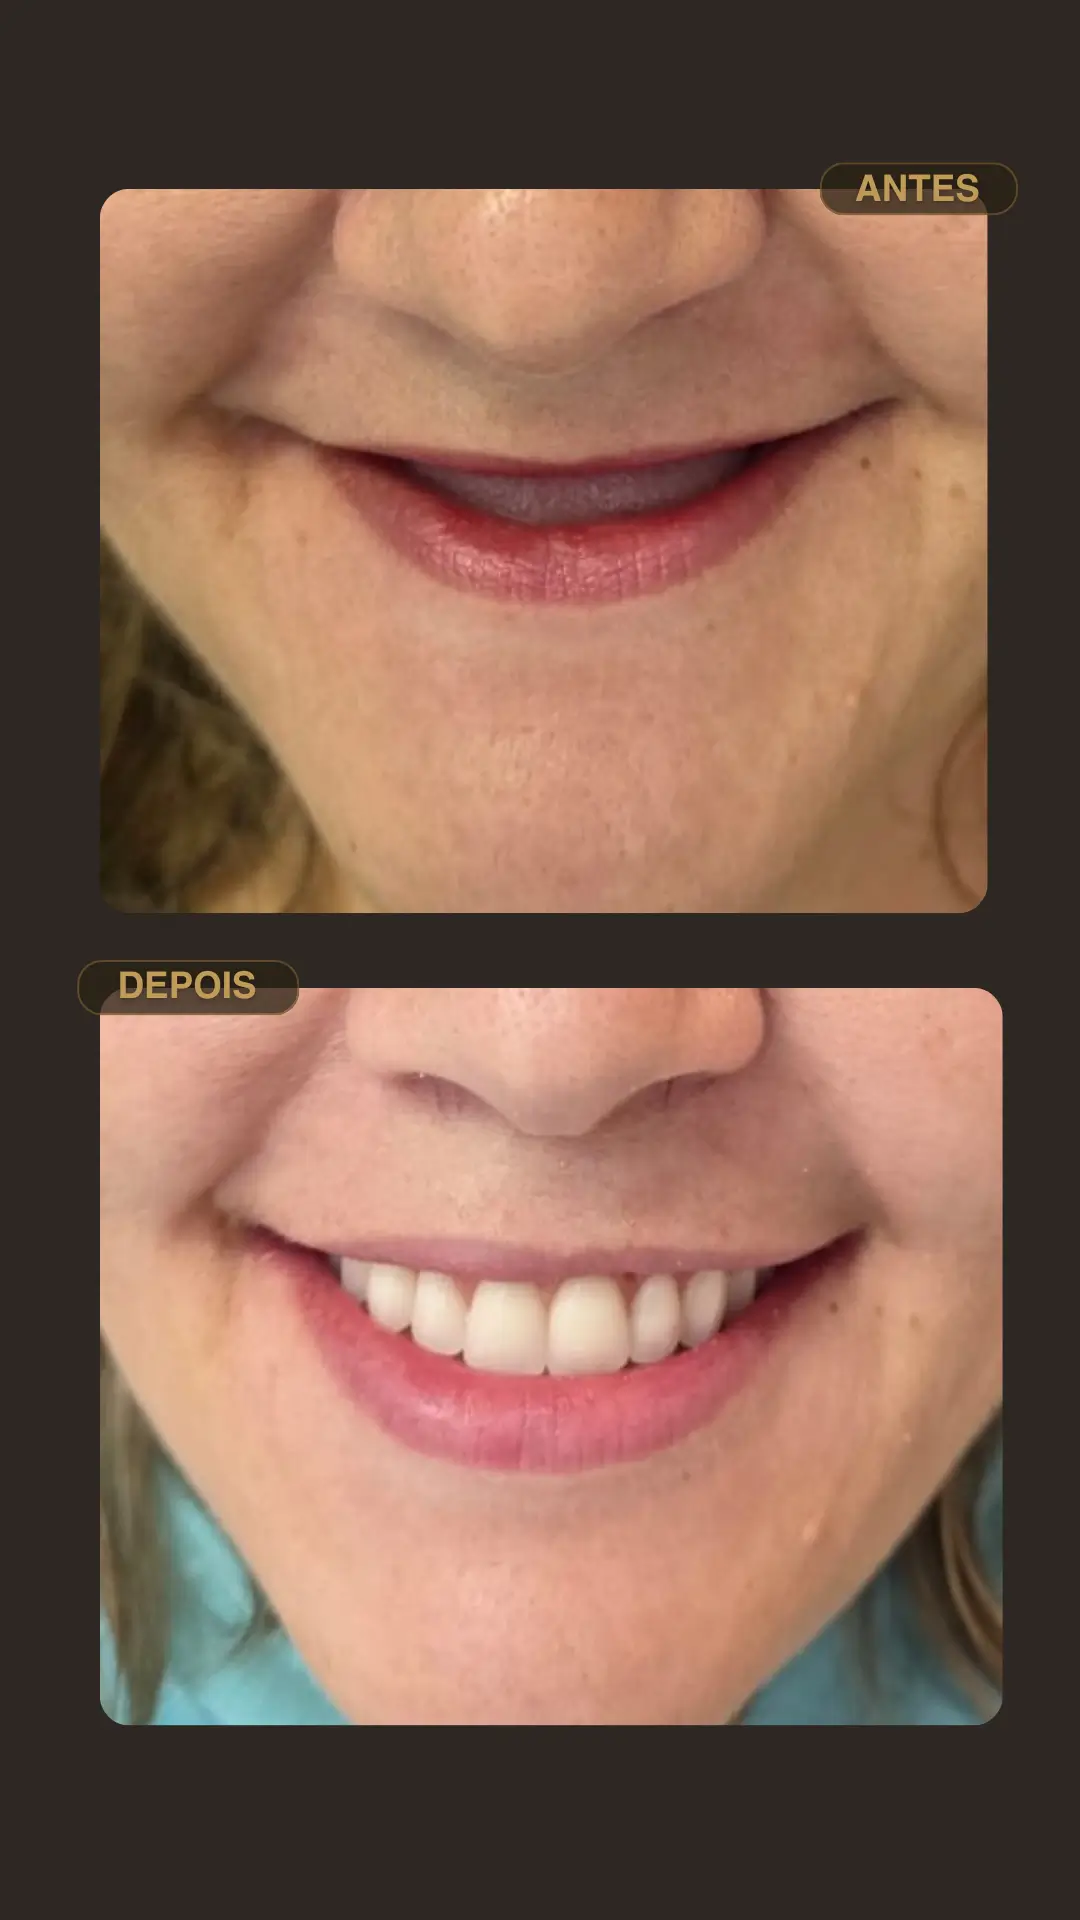
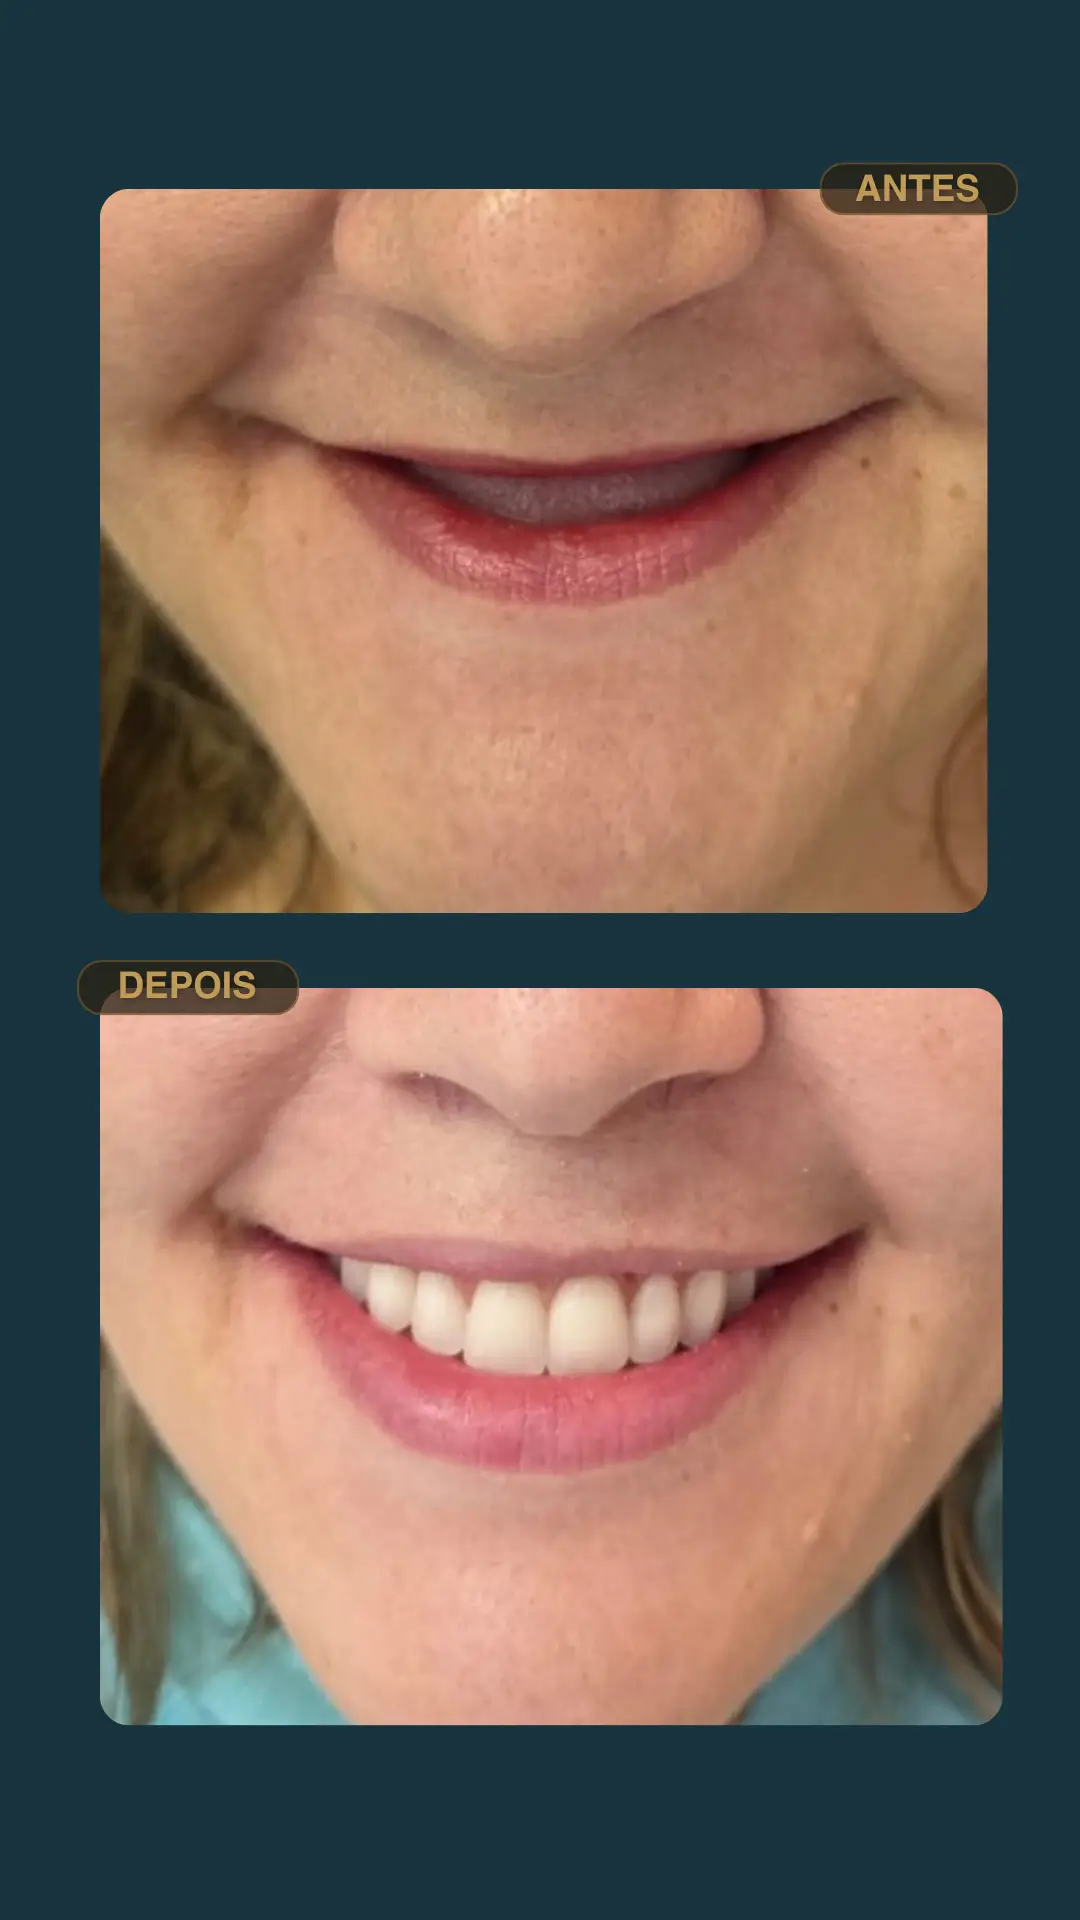
alterações finais v2.0. Entrega do projeto

diff --git a/index.html b/index.html
@@ -311,7 +311,7 @@
                             class="material-symbols-outlined text-white/30 group-hover:text-white/70 transition-colors duration-300 text-base">verified_user</span>
                         <span
                             class="text-[10px] uppercase tracking-[0.15em] font-bold text-white/40 group-hover:text-white/90 transition-colors duration-300">Atendimento
-                            especializado em Vila Olímpia</span>
+                            especializado em Vila Olímpia e Cotia</span>
                     </div>
                     <span class="text-white/20 text-xs">|</span>
                 </div>
@@ -647,7 +647,7 @@
 
                             <!-- Back -->
                             <div
-                                class="absolute inset-0 w-full h-full [backface-visibility:hidden] [-webkit-backface-visibility:hidden] bg-gradient-to-br from-[#52596B] to-[#2D2310] rounded-[2.5rem] shadow-xl border border-[#B79D6D]/20 p-8 text-white [transform:rotateY(180deg)] flex flex-col items-center text-center justify-center">
+                                class="absolute inset-0 w-full h-full [backface-visibility:hidden] [-webkit-backface-visibility:hidden] bg-[#17343F] rounded-[2.5rem] shadow-xl border border-[#B79D6D]/20 p-8 text-white [transform:rotateY(180deg)] flex flex-col items-center text-center justify-center">
                                 <h4 class="font-headline text-[20px] text-[#B79D6D] mb-4">O que significa?</h4>
 
                                 <p class="text-[14px] text-white/90 font-light leading-relaxed mb-6">
@@ -721,7 +721,7 @@
 
                             <!-- Back -->
                             <div
-                                class="absolute inset-0 w-full h-full [backface-visibility:hidden] [-webkit-backface-visibility:hidden] bg-gradient-to-br from-[#52596B] to-[#2D2310] rounded-[2.5rem] shadow-xl border border-[#B79D6D]/20 p-8 text-white [transform:rotateY(180deg)] flex flex-col items-center justify-center text-left">
+                                class="absolute inset-0 w-full h-full [backface-visibility:hidden] [-webkit-backface-visibility:hidden] bg-[#17343F] rounded-[2.5rem] shadow-xl border border-[#B79D6D]/20 p-8 text-white [transform:rotateY(180deg)] flex flex-col items-center justify-center text-left">
 
                                 <p
                                     class="text-[14px] text-[#B79D6D] font-light leading-relaxed mb-4 self-center font-medium">
@@ -818,7 +818,7 @@
 
                             <!-- Back -->
                             <div
-                                class="absolute inset-0 w-full h-full [backface-visibility:hidden] [-webkit-backface-visibility:hidden] bg-gradient-to-br from-[#52596B] to-[#2D2310] rounded-[2.5rem] shadow-xl border border-[#B79D6D]/20 p-8 text-white [transform:rotateY(180deg)] flex flex-col items-center justify-center text-center">
+                                class="absolute inset-0 w-full h-full [backface-visibility:hidden] [-webkit-backface-visibility:hidden] bg-[#17343F] rounded-[2.5rem] shadow-xl border border-[#B79D6D]/20 p-8 text-white [transform:rotateY(180deg)] flex flex-col items-center justify-center text-center">
                                 <h4 class="font-headline text-[20px] text-[#B79D6D] mb-4">Em Detalhes</h4>
 
                                 <p class="text-[14px] text-white/90 font-light leading-relaxed mb-4">
@@ -897,7 +897,7 @@
 
                             <!-- Back -->
                             <div
-                                class="absolute inset-0 w-full h-full [backface-visibility:hidden] [-webkit-backface-visibility:hidden] bg-gradient-to-br from-[#52596B] to-[#2D2310] rounded-[2.5rem] shadow-xl border border-[#B79D6D]/20 p-8 text-white [transform:rotateY(180deg)] flex flex-col items-center justify-center text-left">
+                                class="absolute inset-0 w-full h-full [backface-visibility:hidden] [-webkit-backface-visibility:hidden] bg-[#17343F] rounded-[2.5rem] shadow-xl border border-[#B79D6D]/20 p-8 text-white [transform:rotateY(180deg)] flex flex-col items-center justify-center text-left">
 
                                 <p
                                     class="text-[14px] text-[#B79D6D] font-light leading-relaxed mb-4 self-center font-medium">
@@ -943,7 +943,7 @@
             </div>
         </section>
         <!-- Results Section -->
-        <section class="py-32 px-6 bg-[#231E1A] relative overflow-hidden" id="resultados">
+        <section class="py-32 px-6 bg-[#17343F] relative overflow-hidden" id="resultados">
 
             <!-- Decorative abstract glows -->
             <div
@@ -990,10 +990,10 @@
                 <div class="relative w-full overflow-hidden mb-16">
                     <!-- Fade edges -->
                     <div
-                        class="absolute left-0 top-0 bottom-0 w-12 bg-gradient-to-r from-[#231E1A] to-transparent z-10 pointer-events-none">
+                        class="absolute left-0 top-0 bottom-0 w-12 bg-gradient-to-r from-[#17343F] to-transparent z-10 pointer-events-none">
                     </div>
                     <div
-                        class="absolute right-0 top-0 bottom-0 w-12 bg-gradient-to-l from-[#231E1A] to-transparent z-10 pointer-events-none">
+                        class="absolute right-0 top-0 bottom-0 w-12 bg-gradient-to-l from-[#17343F] to-transparent z-10 pointer-events-none">
                     </div>
 
                     <div class="carousel-track flex gap-4 w-max" id="carouselTrack">
